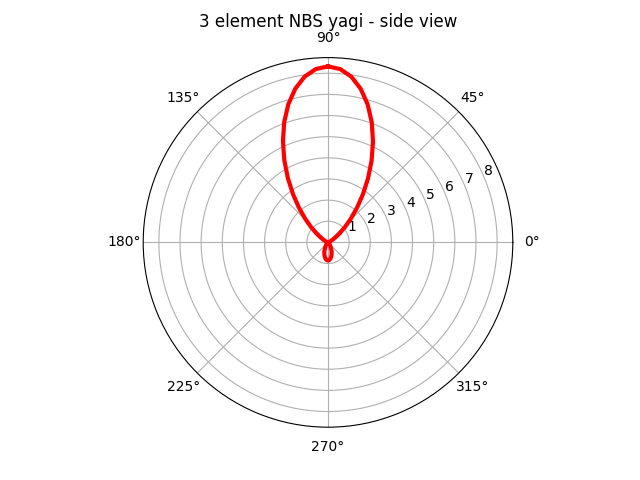
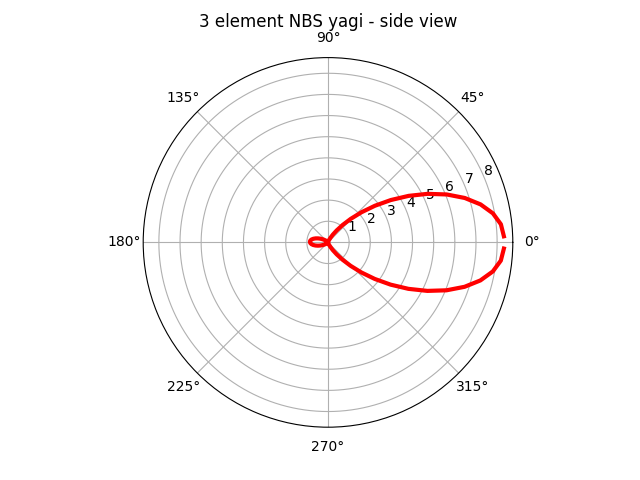
Rotate radiation pattern

Changed region(s): [[0.4688, 0.1875, 0.7812, 0.5625], [0.4375, 0.125, 0.5625, 0.4375], [0.5625, 0.4688, 0.8125, 0.625]]

diff --git a/Projects/antenna_sim/yagi_2m_3_element.py b/Projects/antenna_sim/yagi_2m_3_element.py
@@ -161,12 +161,13 @@ phis = rp.get_phi_angles() * 3.1415 / 180.0
 import matplotlib.pyplot as plt
 
 ax = plt.subplot(111, polar=True)
-ax.plot(thetas, gains[:,0], color='r', linewidth=3)
+# TODO: np.roll hack needed to make antenna face the right way. Need to figure out why. 
+ax.plot(np.roll(thetas, 23) , gains[:,0], color='r', linewidth=3)
 ax.grid(True)
 
 ax.set_title("3 element NBS yagi - side view", va='bottom')
 plt.savefig("radiation_pattern_%i_MHz.png" % freq)
-plt.show()
+# plt.show()
 
 system_impedance = 50  
 start_freq = 140
@@ -175,17 +176,8 @@ freq_points = 100
 context.fr_card(0, freq_points, start_freq, (stop_freq-start_freq)/freq_points)
 # ifrq_linear_step, count, start_frequency, step_size
 context.xq_card(0) # Execute simulation
-# TODO: add get_n_items to nec_antenna_input and co, so we can automatically deduce count etc. Much cleaner
 
-# rng = matched_range_around(context, count, design_freq_mhz, system_impedance)
-# if rng[0] is None or rng[1] is None:
-#     print("VSWR is nowhere <= 2 @ %i Ohm!" % system_impedance)
-# else:
-#     bandwidth = 100.0 * (rng[1] - rng[0]) / design_freq_mhz
-#     print("The fractional bandwidth @ %i Ohm is %2.2f%% - %i MHz (%i Mhz to %i MHz)" % (system_impedance, bandwidth, (rng[1] - rng[0]), rng[0], rng[1]))
-
-
-#context.get input parameters could be very useful in debugging
+# context.get input parameters could be very useful in debugging
 freqs = []
 vswrs = []
 blah = context.get_input_parameters(0)
@@ -207,4 +199,4 @@ plt.grid(True)
 filename = "vswr_%i_MHz.png" % freq
 print("Saving plot to file: %s" % filename)
 plt.savefig(filename)
-plt.show()
+# plt.show()
